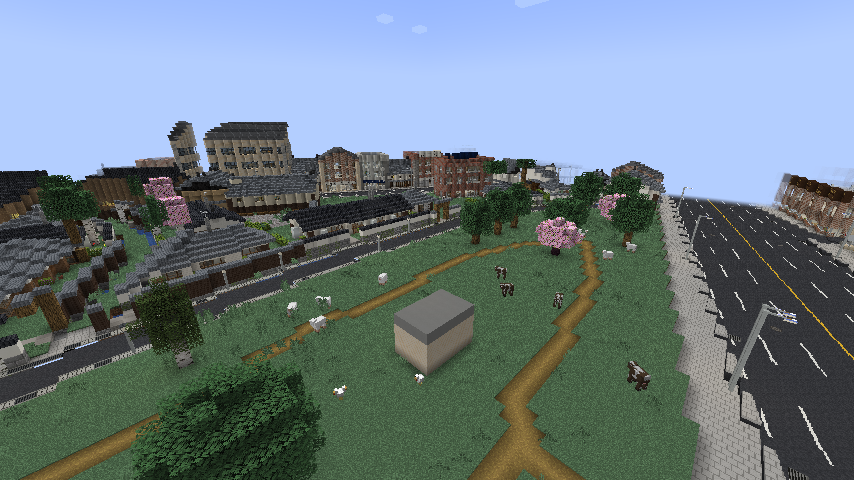
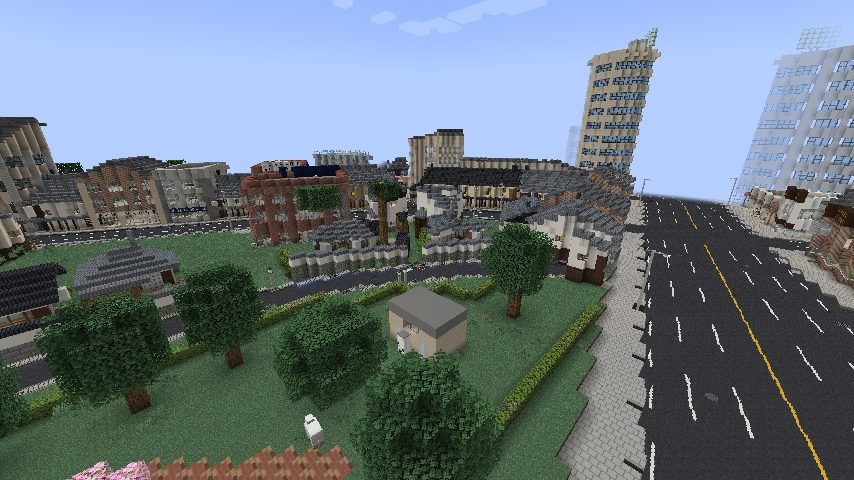
Park paths paved by the park, and hedges, car stops, arbours, wisteria trellises, flower beds, fountains, lanterns and shrubs

diff --git a/core/src/main/java/com/mtm/citybuilder/core/building/landmark/ParkParts.java b/core/src/main/java/com/mtm/citybuilder/core/building/landmark/ParkParts.java
@@ -98,7 +98,7 @@ public final class ParkParts {
         Model m = new Model();
         m.set(0, 1, 0, "citybuilder:street_light_pole");
         m.set(0, 2, 0, "citybuilder:street_light_pole");
-        m.set(0, 3, 0, "citybuilder:street_light_lamp");
+        m.set(0, 3, 0, "citybuilder:street_light_lamp[facing=north]");
         return m;
     }
 
@@ -161,8 +161,9 @@ public final class ParkParts {
                 }
             }
         }
-        // A bench at the side for the parents
+        // A bench at the side for the parents, a drinking fountain at the other
         m.place(bench("west"), width - 1, 1, depth / 2 - 1, true);
+        m.place(fountain(), 0, 1, depth / 2, true);
         Shapes.connect(m);
         return m;
     }
@@ -193,6 +194,8 @@ public final class ParkParts {
                 }
             }
         }
+        // A stone lantern on the bank at a corner, outside the water
+        m.place(lantern(), 0, 1, 0, true);
         return m;
     }
 
@@ -247,6 +250,148 @@ public final class ParkParts {
         m.set(3, 3, 3, "citybuilder:window_aluminum_clear");
         m.set(2, 1, 4, "citybuilder:vending_white[facing=south,half=lower]");
         m.set(2, 2, 4, "citybuilder:vending_white[facing=south,half=upper]");
+        Shapes.connect(m);
+        return m;
+    }
+
+    /** A clipped hedge (植え込み) a block high: azalea, some of it in flower. */
+    public static Model hedge(long seed) {
+        Model m = new Model();
+        m.set(0, 1, 0, Hash.unit(seed) < 0.3 ? "minecraft:flowering_azalea_leaves[distance=7,persistent=true,waterlogged=false]"
+                : "minecraft:azalea_leaves[distance=7,persistent=true,waterlogged=false]");
+        return m;
+    }
+
+    /** A low shrub (a rounded azalea, a fern beside it) among the trees. */
+    public static Model shrub(long seed) {
+        Model m = new Model();
+        m.set(0, 1, 0, "minecraft:flowering_azalea");
+        if (Hash.unit(Hash.of(seed, 1)) < 0.5) {
+            m.set(1, 1, 0, "minecraft:fern");
+        }
+        return m;
+    }
+
+    /** A car stop (車止め) across a path's entrance: a white post with a yellow band, a block high. */
+    public static Model bollard() {
+        Model m = new Model();
+        m.set(0, 1, 0, "minecraft:diorite_wall[east=none,north=none,south=none,up=true,waterlogged=false,west=none]");
+        return m;
+    }
+
+    private static final String[] FLOWERS = {"minecraft:poppy", "minecraft:dandelion", "minecraft:red_tulip",
+            "minecraft:orange_tulip", "minecraft:white_tulip", "minecraft:pink_tulip", "minecraft:cornflower",
+            "minecraft:oxeye_daisy", "minecraft:allium", "minecraft:azure_bluet"};
+
+    /**
+     * A flower bed (花壇) over {@code width} by {@code depth}: a low stone kerb round soil planted in rows of two or
+     * three kinds of flower, as a ward's parks department plants them.
+     */
+    public static Model flowerBed(int width, int depth, long seed) {
+        Model m = new Model();
+        String[] kinds = new String[3];
+        for (int k = 0; k < 3; k++) {
+            kinds[k] = FLOWERS[(int) Math.floorMod(Hash.of(seed, k), (long) FLOWERS.length)];
+        }
+        for (int x = 0; x < width; x++) {
+            for (int z = 0; z < depth; z++) {
+                boolean edge = x == 0 || z == 0 || x == width - 1 || z == depth - 1;
+                if (edge) {
+                    m.set(x, 0, z, "minecraft:polished_andesite");
+                    m.set(x, 1, z, "minecraft:polished_andesite_slab[type=bottom,waterlogged=false]");
+                } else {
+                    m.set(x, 0, z, "minecraft:podzol[snowy=false]");
+                    m.set(x, 1, z, kinds[Math.floorMod(z, 3) == 1 ? 1 : x % 2 == 0 ? 0 : 2]);
+                }
+            }
+        }
+        return m;
+    }
+
+    /**
+     * A wisteria trellis (藤棚) 6 by 5: four timber posts, a lattice of beams over them hung with the vine's leaves and
+     * flowers, benches under it.
+     */
+    public static Model wisteria(long seed) {
+        Model m = new Model();
+        for (int x = 0; x < 6; x++) {
+            for (int z = 0; z < 5; z++) {
+                m.set(x, 0, z, "citybuilder:sidewalk_granite");
+                boolean post = (x == 0 || x == 5) && (z == 0 || z == 4);
+                if (post) {
+                    for (int y = 1; y <= 3; y++) {
+                        m.set(x, y, z, "minecraft:stripped_spruce_log[axis=y]");
+                    }
+                }
+                m.set(x, 4, z, (x + z) % 2 == 0 ? "minecraft:spruce_slab[type=bottom,waterlogged=false]"
+                        : "minecraft:flowering_azalea_leaves[distance=7,persistent=true,waterlogged=false]");
+                if (!post && (x == 0 || x == 5 || z == 0 || z == 4) && Hash.unit(Hash.of(seed, x, z)) < 0.5) {
+                    // The flowers hanging from the edge
+                    m.set(x, 3, z, "minecraft:cave_vines_plant[berries=false]");
+                }
+            }
+        }
+        m.place(bench("north"), 1, 1, 1, true);
+        m.place(bench("south"), 2, 1, 3, true);
+        return m;
+    }
+
+    /**
+     * An arbour (東屋/あずまや) 5 by 5: four posts under a hipped tiled roof, benches round three sides inside, a
+     * stone floor.
+     */
+    public static Model gazebo(long seed) {
+        Model m = new Model();
+        String roof = Hash.unit(seed) < 0.5 ? "citybuilder:roof_kawara" : "citybuilder:roof_copper_green";
+        for (int x = 0; x < 5; x++) {
+            for (int z = 0; z < 5; z++) {
+                m.set(x, 0, z, "minecraft:smooth_stone");
+                boolean post = (x == 0 || x == 4) && (z == 0 || z == 4);
+                if (post) {
+                    for (int y = 1; y <= 3; y++) {
+                        m.set(x, y, z, "minecraft:dark_oak_log[axis=y]");
+                    }
+                }
+            }
+        }
+        // The roof: a slab course over the whole, a smaller one over it, a block at its top
+        for (int x = -1; x <= 5; x++) {
+            for (int z = -1; z <= 5; z++) {
+                m.set(x, 4, z, roof + "_slab[axis=x,type=bottom]");
+            }
+        }
+        for (int x = 0; x <= 4; x++) {
+            for (int z = 0; z <= 4; z++) {
+                m.set(x, 4, z, roof + "_slab[axis=x,type=top]");
+                if (x >= 1 && x <= 3 && z >= 1 && z <= 3) {
+                    m.set(x, 5, z, roof + "_slab[axis=x,type=bottom]");
+                }
+            }
+        }
+        m.set(2, 5, 2, roof + "[axis=x]");
+        m.place(bench("north"), 1, 1, 0, true);
+        for (int z = 1; z <= 3; z++) {
+            m.set(0, 1, z, "minecraft:spruce_stairs[facing=west,half=bottom,shape=straight,waterlogged=false]");
+            m.set(4, 1, z, "minecraft:spruce_stairs[facing=east,half=bottom,shape=straight,waterlogged=false]");
+        }
+        return m;
+    }
+
+    /** A drinking fountain (水飲み場): a stone pillar with its basin and a tap, a step for children beside it. */
+    public static Model fountain() {
+        Model m = new Model();
+        m.set(0, 1, 0, "minecraft:polished_andesite");
+        m.set(0, 2, 0, "minecraft:cauldron");
+        m.set(1, 1, 0, "minecraft:polished_andesite_slab[type=bottom,waterlogged=false]");
+        return m;
+    }
+
+    /** A stone lantern (石灯籠) by a pond: a base, the post, the fire box, its cap. */
+    public static Model lantern() {
+        Model m = new Model();
+        m.set(0, 1, 0, "minecraft:stone_brick_wall[east=none,north=none,south=none,up=true,waterlogged=false,west=none]");
+        m.set(0, 2, 0, "citybuilder:toro_light[facing=south]");
+        m.set(0, 3, 0, "minecraft:stone_brick_slab[type=bottom,waterlogged=false]");
         return m;
     }
 }

diff --git a/core/src/main/java/com/mtm/citybuilder/core/building/FacilityModels.java b/core/src/main/java/com/mtm/citybuilder/core/building/FacilityModels.java
@@ -346,8 +346,20 @@ public final class FacilityModels {
         if (kind == Facility.Kind.PARK || kind == Facility.Kind.CENTRAL_PARK) {
             graded(f, open, plots, half, 12, 9, 16, 12, reserved, out, (w, d) -> ParkParts.playground(w, d, seed));
         }
+        if (kind == Facility.Kind.CENTRAL_PARK || kind == Facility.Kind.LARGE_PARK) {
+            graded(f, open, plots, half, 5, 5, 5, 5, reserved, out, (w, d) -> ParkParts.gazebo(seed));
+        }
+        if (kind == Facility.Kind.PARK || kind == Facility.Kind.CENTRAL_PARK) {
+            graded(f, open, plots, half, 6, 5, 6, 5, reserved, out, (w, d) -> ParkParts.wisteria(seed));
+        }
         if (kind != Facility.Kind.GREEN && f.radius() >= 22) {
             graded(f, open, plots, half, 6, 5, 6, 5, reserved, out, (w, d) -> ParkParts.toilet());
+        }
+        // Flower beds: one in a neighbourhood park, two in the larger
+        int beds = kind == Facility.Kind.PARK ? 1 : kind == Facility.Kind.CENTRAL_PARK || kind == Facility.Kind.LARGE_PARK ? 2 : 0;
+        for (int k = 0; k < beds; k++) {
+            long bed = Hash.of(seed, 0xBEDL + k);
+            graded(f, open, plots, half, 5, 3, 10, 4, reserved, out, (w, d) -> ParkParts.flowerBed(w, d, bed));
         }
         // The trees, lamps and benches, each at its own ground
         Model scatter = new Model();
@@ -380,6 +392,13 @@ public final class FacilityModels {
                     default -> edge ? 0.9 : 0.12;
                 };
                 if (Hash.unit(Hash.of(h, 3)) >= chance) {
+                    // A shrub where no tree stands, in the larger parks' lawns and the greens
+                    if (kind != Facility.Kind.PARK && kind != Facility.Kind.SPORTS_PARK && Hash.unit(Hash.of(h, 5)) < 0.3) {
+                        Integer y = groundAt(x, z);
+                        if (y != null) {
+                            set(scatter, ParkParts.shrub(h), x, y, z);
+                        }
+                    }
                     continue;
                 }
                 ParkParts.Tree tree = species(kind, edge, Hash.unit(Hash.of(h, 4)));
@@ -413,6 +432,64 @@ public final class FacilityModels {
                     // A bench beside the path, facing it: its back the way it lies off the path, (uz, -ux)
                     String back = Math.abs(uz) > Math.abs(ux) ? (uz > 0 ? "east" : "west") : (-ux > 0 ? "south" : "north");
                     set(scatter, ParkParts.bench(back), x, y, z);
+                }
+            }
+        }
+        if (kind != Facility.Kind.GREEN) {
+            // A clipped hedge round the edge, open where the paths come in
+            int x0 = (int) Math.floor(f.x() - half);
+            int z0 = (int) Math.floor(f.z() - half);
+            int x1 = (int) Math.ceil(f.x() + half);
+            int z1 = (int) Math.ceil(f.z() + half);
+            for (int x = x0; x <= x1; x++) {
+                for (int z = z0; z <= z1; z++) {
+                    double px = x + 0.5;
+                    double pz = z + 0.5;
+                    if (!land.test(px, pz) || land.test(px + 1, pz) && land.test(px - 1, pz) && land.test(px, pz + 1)
+                            && land.test(px, pz - 1)) {
+                        continue;
+                    }
+                    if (walkDistance(walk, px, pz) < 1.5 || in(reserved, px, pz, 0.0)) {
+                        continue;
+                    }
+                    Integer y = groundAt(x, z);
+                    if (y != null) {
+                        set(scatter, ParkParts.hedge(Hash.of(seed, x, z)), x, y, z);
+                    }
+                }
+            }
+            // Car stops across each path where it comes in from the street
+            for (com.mtm.citybuilder.core.function.Walk w : functions.walks()) {
+                if (w.facility() != f.id() || w.points().size() < 2) {
+                    continue;
+                }
+                List<double[]> pts = w.points();
+                for (int end = 0; end < 2; end++) {
+                    double[] a = end == 0 ? pts.get(0) : pts.get(pts.size() - 1);
+                    double[] b = end == 0 ? pts.get(1) : pts.get(pts.size() - 2);
+                    double len = Math.hypot(b[0] - a[0], b[1] - a[1]);
+                    if (len < 4) {
+                        continue;
+                    }
+                    double ux = (b[0] - a[0]) / len;
+                    double uz = (b[1] - a[1]) / len;
+                    // Only where the path's end lies at the land's edge: a block or two out of it is street
+                    if (land.test(a[0] - ux * 3, a[1] - uz * 3)) {
+                        continue;
+                    }
+                    double in = 0;
+                    while (in < 8 && !land.test(a[0] + ux * in, a[1] + uz * in)) {
+                        in += 0.5;
+                    }
+                    in += 1.5;
+                    for (double k : new double[]{-0.5 * w.width(), 0.0, 0.5 * w.width()}) {
+                        int x = (int) Math.floor(a[0] + ux * in - uz * k);
+                        int z = (int) Math.floor(a[1] + uz * in + ux * k);
+                        Integer y = groundAt(x, z);
+                        if (y != null && land.test(x + 0.5, z + 0.5)) {
+                            set(scatter, ParkParts.bollard(), x, y, z);
+                        }
+                    }
                 }
             }
         }

diff --git a/common/src/main/java/com/mtm/citybuilder/world/CityChunks.java b/common/src/main/java/com/mtm/citybuilder/world/CityChunks.java
@@ -562,6 +562,29 @@ public final class CityChunks {
         }
     }
 
+    /**
+     * A footpath's paving inside a facility's grounds (the function layer's walks): a neighbourhood or sports park's
+     * paths in red interlocking pavers, a central or large park's in granite setts, a temple's in gravel, a shrine's
+     * approach in gravel too; a green's and the promenades' packed earth as they were.
+     */
+    private static BlockState walkPaving(WorldGenLevel level, int x, int z, BlockState earth) {
+        CityLogic logic = CityWorlds.of(level.getLevel());
+        com.mtm.citybuilder.core.extent.UrbanSample sample = logic.urban(x + 0.5, z + 0.5);
+        if (sample.owner() == null) {
+            return earth;
+        }
+        com.mtm.citybuilder.core.function.Facility f = logic.functions().town(sample.owner()).facilityAt(x + 0.5, z + 0.5);
+        if (f == null) {
+            return earth;
+        }
+        return switch (f.kind()) {
+            case PARK, SPORTS_PARK -> ours("sidewalk_interlocking").defaultBlockState();
+            case CENTRAL_PARK, LARGE_PARK -> ours("sidewalk_granite").defaultBlockState();
+            case TEMPLE, SHRINE, GRAND_TEMPLE, GRAND_SHRINE, SMALL_TEMPLE, SMALL_SHRINE -> Blocks.GRAVEL.defaultBlockState();
+            default -> earth;
+        };
+    }
+
     /** Before decoration: paving on the ground, decks over water, headroom cleared; the airports graded and paved. */
     public static void pave(WorldGenLevel level, ChunkAccess chunk) {
         ChunkLayer.Column[] columns = columns(level, chunk);
@@ -588,6 +611,9 @@ public final class CityChunks {
                 }
                 ChunkLayer.Column column = columns[x * 16 + z];
                 BlockState block = paving(column);
+                if (block != null && block.is(Blocks.DIRT_PATH)) {
+                    block = walkPaving(level, baseX + x, baseZ + z, block);
+                }
                 if (block == null) {
                     if (column.canal() != 0) {
                         dig(chunk, column, baseX + x, baseZ + z, x, z, pos, top);

diff --git a/core/src/test/java/com/mtm/citybuilder/core/building/landmark/CivicTest.java b/core/src/test/java/com/mtm/citybuilder/core/building/landmark/CivicTest.java
@@ -21,7 +21,17 @@ class CivicTest {
     private static List<Model> all() {
         return List.of(new CityHall(48, 22, 8, 22, 3).build(), new CityHall(30, 16, 5, 0, 5).build(),
                 new Hospital(50, 8, 2).build(), new Hospital(34, 5, 6).build(), new Library(44, 30, 4).build(),
-                new Library(24, 18, 9).build(), new GasStation(3, true, 1).build(), new GasStation(1, false, 2).build());
+                new Library(24, 18, 9).build(), new GasStation(3, true, 1).build(), new GasStation(1, false, 2).build(),
+                new GasStation(2, false, 3, true).build(), new Hospital(40, 6, 4, false).build());
+    }
+
+    /** The parks' parts, for their block states. */
+    private static List<Model> parks() {
+        return List.of(ParkParts.playground(16, 12, 1), ParkParts.pond(20, 14, 2), ParkParts.field(40, 28),
+                ParkParts.toilet(), ParkParts.wisteria(3), ParkParts.gazebo(4), ParkParts.gazebo(5),
+                ParkParts.flowerBed(8, 4, 6), ParkParts.hedge(7), ParkParts.shrub(8), ParkParts.bollard(),
+                ParkParts.lantern(), ParkParts.fountain(), ParkParts.lamp(), ParkParts.bench("east"),
+                ParkParts.tree(ParkParts.Tree.CHERRY, 9));
     }
 
     /**
@@ -50,7 +60,9 @@ class CivicTest {
         // windows, by name)
         Path states = Path.of("..", "common", "src", "main", "resources", "assets", "citybuilder", "blockstates");
         Map<String, JsonObject> files = new HashMap<>();
-        for (Model m : all()) {
+        List<Model> models = new ArrayList<>(all());
+        models.addAll(parks());
+        for (Model m : models) {
             List<String> bad = new ArrayList<>();
             m.forEach((x, y, z, s) -> {
                 if (s.startsWith("minecraft:")) {

diff --git a/CLAUDE.md b/CLAUDE.md
@@ -97,7 +97,7 @@ gradlew :fabric:runClient / :forge:runClient    # 开发环境客户端（未验
 - **建筑用的本 mod 方块**（`block.BuildingBlocks`，2026-11-21）：窗 `window_<框>_<玻璃>`（框 aluminum/dark/wood/white，玻璃 clear/blue/gray，12 种），玻璃板一族（`WindowBlock` 继承 `IronBarsBlock`，方块状态和连接同玻璃板），但模型有框有进深：2 像素厚的玻璃在方块正中、上沿横框、下沿窗台比玻璃两侧各宽 1 像素、正中一根竖框，墙面因此保留窗洞的进深；并排连成一条，转角和斜向墙的台阶由 `CityBuildings` 的连接和补角处理；`Palette.glazing` 按建筑选框（办公楼黑框、木质收边木框、白墙住宅白框、其余铝框）、按调色板的玻璃选色；写字楼的幕墙（`FACADE` 为 `curtain`，楼上从楼板到楼板全是玻璃）不用窗，用整块的幕墙玻璃 `curtain_<玻璃>`（`GlassBlock`，同种玻璃之间不画面，一个开间连成一整片，用户 2026-11-21：窗板在幕墙上拼不成一片）；贴图、模型、状态、掉落、名称由 `tools/textures/window_textures.py` 生成。屋面 `roof_<材质>` 和 `roof_<材质>_slab`（`RoofBlock`/`RoofSlabBlock`，2026-11-21，用户要求换掉原版屋顶材质）：熏银瓦、黑釉瓦、褐釉瓦、灰色和黑色彩钢板瓦（化粧スレート）、银绿红三色钢板屋面、铜板和绿锈铜板，贴图自制（`tools/textures/roof_textures.py`，按 16 像素画桟瓦的瓦垄、石板瓦的错缝、立边咬口的接缝、铜板的一文字葺）；带 `axis`（檐口方向），瓦垄和接缝顺坡，生成时由 `BuildingLayer.eaveAlongX` 按屋顶形式给出（四坡的两端向端檐），窗檐按墙的走向，手放时檐口与玩家朝向垂直；调色板的 `roofSlab`/`roofBlock` 全换成这些（旧的原版 id 一一对应，见脚本的说明）。屋面还没有风化（`weathering` 里没有它们）。墙面、地板和基础（2026-11-22，用户：原版的陶瓦、混凝土墙面太平、和我们的屋面窗门不搭）：调色板的 `wall`/`accent`/`trim`/`parapet`/`foundation`/`floor` 和材质表的 `baseWall`/`upperWall`/`plaster`/`board`/`blackBoard`/`partition`/`fence`/`gatepost` 全换成本 mod 的整块方块（`BuildingBlocks.WALLS`，名字和所仿原版方块（声音、硬度、地图色）成对列出）：漆喰 `plaster_white`/`_cream`/`_black`，土墙 `earth_wall`（聚乐）/`earth_rough`（荒壁），砂浆喷涂 `mortar_white`/`_beige`/`_gray`，窑业系挂板 `siding_white`/`_beige`/`_gray`/`_dark`/`_brown`/`_bluegray`/`_rose`（横向搭接）和砖纹 `siding_brick`、石纹 `siding_stone`，面砖 `tile_white`/`_beige`/`_ochre`/`_brown`/`_dark`/`_gray`/`_bluegray`/`_rose`（二丁挂，错缝），清水混凝土 `concrete_exposed`（模板接缝和 P 型螺栓孔）、涂装混凝土 `concrete_white`/`_cream`/`_rose`/`_bluegray`/`_light`/`_gray`/`_black`，ALC 板 `alc_white`/`_gray`，花岗岩饰面 `granite_gray`/`_black`、石灰石 `limestone`，细砖 `brick_red`/`brick_dark`，木板 `board_cedar`/`board_light`、带押缘的 `board_dark`/`board_bengara`、烧杉 `board_yakisugi`，刨光木柱 `timber_dark`/`_brown`/`_light`（町家的柱和收边，代替带树皮的原木），海鼠壁 `namako`，角波钢板 `steel_siding`/`_gray`，基础 `concrete_foundation`/`stone_ashlar`/`stone_rubble`，围墙 `concrete_block`（ブロック塀），地板 `flooring_light`/`flooring_dark`/`floor_pvc`；地板以外都有风化版 `<名>_aged`（污渍、竖向流痕，两列流痕上下对齐），`weathering` 表里一一对应。侧面和顶面两张贴图（`<名>.png`、`<名>_top.png`，在 `textures/block/wall/`），全部由 `tools/textures/wall_textures.py` 画（`--preview <文件>` 输出一张总览图），同时写方块状态、模型、物品模型、掉落表、名称和挖掘标签；调色板从原版到这些方块的对应按建筑种类定（住宅多挂板和砂浆、町家和土藏用漆喰和土墙、公寓和办公楼用面砖和涂装混凝土、工厂用 ALC 和钢板）。颜色按角色限饱和度（设计文档 6b）：`CatalogTest.wallsAndRoofsAreOurOwnAndMuted` 要求每个调色板的墙、accent、女儿墙、屋面和 `baseWall`/`upperWall`/`plaster`（连同风化版）都是本 mod 的方块，且贴图平均色的 CIELAB 彩度 ≤ 30（约孟塞尔彩度 6）；红色钢板屋面和铜板屋面因此调暗了（`roof_textures.py`）。trim 里品牌色（快餐店的红、渡轮站和工厂的蓝）仍是原版混凝土，原版的寺社库、雨棚、招牌不在此列。薄墙 `thin_<材质>`（`ThinWallBlock`，2026-11-21；原版墙材 42 种列在 `BuildingBlocks.THIN_WALLS`，本 mod 的墙面（除基础和地板外，含风化版）列在 `BuildingBlocks.THIN_FINISHES`，`CityBuildings.thinOf` 对两个命名空间都找 `citybuilder:thin_<名>`）：贴着方块一面、4 像素厚，形状有直墙、外角（贴 `facing` 和它顺时针的那面）、内角的小柱，贴图直接引用原版方块或本 mod 墙面的贴图；形状的逻辑在 core 的 `building.ThinWall`（纯 Java、有测试）。生成时 `CityBuildings` 对和方块网格对齐的建筑，把 WALL、ACCENT、WALL_ALT 这几种墙按周围八格哪些在建筑外选形状（`ThinWall.fromOutside`），但只在沿墙两侧和上下都是实墙时才换（`CityBuildings.closed`：窗、退进的窗、门旁边的敞开侧面会露出空腔，和洞口周围的装饰对不上），转角柱等 TRIM 仍是整块，斜向建筑仍全用整块。手放：贴在点的那一面（点地面、天花板时贴在视线方向的远侧），放下那一刻按旁边已有的薄墙补成内角或外角，之后不再随邻居变；潜行放置完全按点的面、只出直墙；调整扳手 `adjuster`（`item.AdjusterItem`，经 `Platform.registerItem` 注册）右键依次换形状、潜行右键反向，对标线和斜向路缘是右键转方向、潜行右键换位置，改完固定。模型、方块状态、掉落、名称、挖掘工具标签（`data/minecraft/tags/blocks/mineable/*`）和扳手贴图由 `tools/textures/thin_walls.py` 生成；用例 `cases/thin-walls.spec.mjs` 摆出各形状和全部材质截图（`docs/screens/thin-*.png`），`cases/buildings.spec.mjs` 检查城里有薄墙。地块的墙厚余量 `wallAllowance` 还是按整块墙算的 1.7，以后可以减。灯和门（2026-11-21，用户试玩第一个 jar 后要求换掉原版的灯笼和门）：灯是 `LampBlock`（带 `facing`，即正面朝向；静态模型，没有方块实体）：檐下挂的提灯 `chochin_red`/`chochin_white`（亮度 13，町家和商店门旁、拱廊和雁木下，材料 `lantern`）、店门口的行灯 `andon`/`andon_sign`（14，材料 `andon`）、住宅和公寓门旁墙上的玄关灯 `porch_light_black`/`porch_light_silver`（12，底板贴在 `facing` 背后的墙上；`BuildingLayer.Part.PORCH_LIGHT`、材料 `porchLight`：住宅在门左边一格、高 3，外廊下公寓在每户门旁、高 2）、门柱灯 `gate_light`（材料 `gateLight`）、石灯笼火袋 `toro_light`（`toroLight`）；`CityBuildings.state` 让灯的 `facing` 朝外。门是 `CityDoorBlock`（继承原版 `DoorBlock`，上下两半、开关、放置都照原版，开门是原版的转轴动画）：格子门 `koshi_door`（暗色木格子衬磨砂纸，町家、藏、部分住宅和乡村住宅）、铝合金玄关门 `entrance_door_silver`/`entrance_door_bronze`（磨砂玻璃，住宅、公寓、工厂；金属声音但手能开）、店铺玻璃门 `shop_door`（商店、便利店、快餐、邮局、渡轮站、办公楼）；玻璃门半透明（Fabric 在 `BuildingBlocks.TRANSLUCENT` 里，Forge 读模型的 `render_type`）。调色板的 `door` 全换成这些。贴图、模型（门的模型以原版门的模板为父模型，只换贴图）、方块状态、物品模型、掉落表（门只从下半掉一个）、名称、`mineable`/`doors`/`wooden_doors` 标签由 `tools/textures/lantern_door_textures.py` 生成；用例 `cases/lamps-doors.spec.mjs` 摆出每个状态并截图（`docs/screens/lamps-*.png`、`doors-*.png`）。寺社库（`building.temple`）里的原版灯笼没换。小设备（2026-11-22，用户：原版没有的细节全部做成本 mod 的方块；模型按北向画、墙在南边，带 `facing` 的都继承 `LampBlock`，`CityBuildings.state` 让它们朝外）：空调室外机 `ac_unit_white`/`ac_unit_beige`（`AcUnitBlock`，12 × 10 × 5 像素，正面风扇格栅，侧面百叶，右侧（从正面看）保温配管；`mount` 由 `CityBuildings.fixture` 按下面是什么定：下面是空的为 `wall`（挂在墙上的两只托架上，窗下的），在建筑自己的占地里、下面不是阳台地板为 `roof`（屋顶镀锌架上），其余 `floor`（地面、阳台，两只脚）；材料 `equipment`）、自动售货机 `vending_red`/`_blue`/`_white`（`TallFixtureBlock`，两格高，`half` 由下面是不是同一个部件定，亮度 9；手放时上半自动放、拆一半另一半跟着没）、燃气热水器 `water_heater`（同样两格：下半配管罩、上半机身；材料 `heater`）、邮筒 `postbox`、落水管 `downpipe_gray`/`_beige`/`_brown`/`_black`（离墙一格的细管和抱箍，工厂墙上的管子也用它）、太阳能板 `solar_panel`（半格高）、电视天线 `tv_antenna`（八木天线，接在杆的顶上）、拱廊百叶顶 `arcade_louvre`（`LouvreBlock`，`axis` 和屋面一样由 `eaveAlongX` 定）、电表 `electric_meter` 和燃气表 `gas_meter`（`Part.METER`/`GAS_METER`：独户住宅右侧墙靠前一格，电表高 2，有燃气热水器的才有燃气表，高 1）、高置水箱 `water_tank`（整块 FRP 板，顶面带检修口）和钢支柱 `tank_leg`（公寓屋顶水塔 `WATER_TOWER` 的 `Part.WATER_TANK`/`TANK_LEG`，原来是墙材和安山岩墙）。街道用的（由街道层放，`ChunkLayer` 负责，CityTabs 归道路页）：路灯杆 `street_light_pole`（逐格叠）、灯头 `street_light_head`/`street_light_head_double`（`facing` 是灯臂伸出的方向，臂长一格半，亮度 15）、小路灯 `street_light_lamp`（14）、侧沟 `side_ditch`（混凝土盖板）/`side_ditch_grate`（钢格栅）（`DirectedPavingBlock`，`facing` 是沟的走向，`low` 同路面下沉）；原有的井盖 `manhole`、雨水箅 `drain_grate` 也还等街道层放。贴图、模型、状态、掉落、名称和挖掘标签由 `tools/textures/fixture_textures.py` 生成（借 `lantern_door_textures.py` 的画图和写文件函数）；用例 `cases/fixtures.spec.mjs` 摆出每个状态并截图（`docs/screens/fixtures-*.png`）。店招（2026-11-22，用户要求精细化灯箱和招牌）：`ShopSignBlock`（继承 `LampBlock`，带 `facing` 和 `glyph` 0–8：0 是素面板、1–8 是字），袖看板灯箱 `sign_blade_<白/红/藏青/绿/黄/黑>`（3 像素厚、从墙伸出一格的竖向灯箱，两面每格一个字，铝边，亮度 11；`Part.BLADE`，材料 `blade`，租户招牌 `tenantSign` 也是它）、招牌板 `fascia_sign_<木/白/藏青/绿/黑>`（整块，正面写字、上下带边；材料 `sign`：檐头、假立面、屋顶招牌、拱廊吊牌、工厂招牌）、内照式招牌 `fascia_lit_<红/蓝/绿/黑字>`（白光面，亮度 14；材料 `fasciaLit`）；字是 `tools/textures/sign_textures.py` 按种子拼的笔画，不是任何文字或品牌；`CityBuildings.glyph` 按位置选字（九分之一是素面板）；用例 `cases/signs.spec.mjs`（截图 `docs/screens/signs-*.png`）。便利店的色带灯箱 `konbini_band_<绿/蓝/橙/红>`（`KonbiniBandBlock`，整块发光，亮度 13，材料 `brandKonbini`：门面顶行、女儿墙两行和招牌柱顶；`stripes` 为真的那块带品牌色条，`CityBuildings` 只给一摞里最下面那块（紧贴店面玻璃上方）条纹，上面的是素白发光面，所以门头是一整条带色条的灯箱；手放时看下面那块，截图 `docs/screens/signs-konbini.png`）。还是原版方块代替的：广告牌（`ad`，白色混凝土和海晶灯）。斜向路缘 `curb_edge`（`KerbEdgeBlock`，32 个方向 × 8 个位置，模型由 `road_models.py` 生成）由 `ChunkLayer.kerb` 在路缘线斜穿的格子里用
 - **平整地面的方块**（`block.GroundBlocks`，2026-11-22，用户：地面台阶太乱，加方块抹平）：分层块 `grass_layer`/`dirt_layer`/`snow_layer`（`LayerBlock`，`layers` 1–8 每档 1/8 格，像雪层；雪用自己的方块，因为世界生成的降雪会把顶上的原版雪层重置成 1 层），堤防的草坡和河川敷按小数高度在整块上加一层（`CityChunks.bank`，1:2 的背坡每列半格）；45° 斜面块 `grass_slope`/`dirt_slope`/`snow_slope`/`stone_ashlar_slope`（`SlopeBlock`，`facing` 是升高的方向，`shape` 同楼梯：直段是 45° 斜放的一个面加 2 像素的细台阶，外角、内角是 4 像素见方的细台阶；碰撞按楼梯），路肩 1:1 的填方（间知石或地表的草、土，寒冷群系用雪）和挖方在高一格的邻格旁放斜面，形状按八个邻格哪些高一格选（`CityChunks.higher`、`SlopeBlock.shaped`；斜着走的路堤是外角、内角相间）。草的顶面按群系染色（Fabric 的 `ColorProviderRegistry`、Forge 的 `RegisterColorHandlersEvent`）。模型、状态、掉落、名称、标签由 `tools/textures/ground_models.py` 生成（只引用原版和本 mod 已有的贴图）；用例 `cases/ground.spec.mjs`（截图 `docs/screens/ground-*.png`）。路面也按 1/8 铺（用户 2026-11-22）：`PavingBlock` 和人行道 `SidewalkBlock` 有 `height` 1–8（顶面 2×height 像素，`low` 再减 3，`PavingBlock.top`），沥青、标线、斑马线、导流带、箭头、井盖、雨水箅、人行道都有各高度的模型（`road_models.py` 按 `paved_<像素>` 父模型生成）；连续高度的面（街道、堤防除护岸外）一律顶在"水平面 + 半格"（`CityChunks.surface`：整块铺到其下，剩下的按 1/8），桥端的路口高度因此取 `floor(deck) + 0.5`，与桥面顶对齐；只有整块的方块（斜路缘 `curb_edge`、触感砖等）取最近的整块。中央绿化带的草用 `grass_layer`。没有自己高度的街道列（桥段端头外、不在桥面上）取周围两格内的平均高度
 - **桥的护栏**（2026-11-22，用户：护栏一片一片、中间能走过去）：街道桥和城际道路桥的护栏改用薄墙 `thin_concrete_light`（`ThinWall` 的直段、外角、内角），放在"有一个相邻或对角邻格中心在桥边以外"的桥面块上（`ChunkLayer.atEdge`，四连通），形状按八个邻格哪些在桥外选（`CityChunks.parapet`），斜着的桥护栏也连成一条
-- **功能层接入建筑层**（2026-11-22，用户：接入功能性建筑，地标组暂不加入）：游戏里每个世界 `logic.buildings().useFunctions()`（`CityWorlds`），建筑层的 `QuarterMap` 换成 `building.FunctionQuarters`（按城，`QuarterMap.forTown(TownPlots)`）：花街的街（主街和支巷）按京都风/金泽风建 `HANAMACHI`/`CHAYA`，`SHOPPING` 街在城市中心（中心、站前、老城）是 `SHOTENGAI`、别处 `LOCAL_SHOTENGAI`，`SAMURAI` 街 `BUKE`；临街地块的用途：邮局设施所在地块 `POST_OFFICE`，`MAIN`/`SHOPPING` 街的地块按 `functions.konbini` 0.035 给便利店、`MAIN` 街再 `fastFood` 0.008 给快餐（花街除外）。整栋生成的公共建筑在 `building.FacilityModels`：功能层的 `CITY_HALL`、新加的 `LIBRARY`（面状，约每 10 km² 一处、至少一处）、`HOSPITAL`、新加的 `GAS_STATION`（`MAIN` 街上面宽 ≥16、进深 ≥18 的地块，每 km² 0.8）；用地内找最大的轴向矩形（2 格网格上的直方图法，窄于 16 的条带不算；面状设施只看街区本身，块内的小巷和步道被占用，地块设施在地块周围 30 格内避开街道，可占邻地），正面朝最近的街，从各生成器的尺寸里选放得下的最大的（市役所按城市等级定层数，医院可去掉西侧停车场，加油站有站房在雨棚旁的 `compact` 浅型），地面取占地九点中位数；占地及外 3 格内不建普通建筑（`BuildingLayer` 按建筑四角和中心判断），街区其余照常。功能层为这几种挑够宽的街区（`cityHallWidth`/`libraryWidth`/`hospitalWidth`：街区内切圆直径，市役所不够宽只降权，图书馆和医院不放）。区块里由 `CityBuildings.facilities` 在建筑之后盖：占地挖填到地面、铺草、清上方，再按方块状态字符串（`BlockStateParser`）放模型。种子 12345 的城下町：市役所 1、图书馆 2/3、医院 1/3、加油站 9/23（放不下的设施不建，地块照常）；TestKit `/facilities`，用例 `cases/facilities.spec.mjs`（截图 `docs/screens/facility-*.png`），测试 `FacilityModelsTest`。地标（城、塔、PLATEAU 体素）还没接。公园（2026-11-22，用户要求）也在 `FacilityModels` 里：`PARK`/`CENTRAL_PARK`/`LARGE_PARK`/`SPORTS_PARK`/`GREEN` 的用地上不建普通建筑（`excludes` 按 `facilityAt`），在避开园路（功能层的 `Walk`）的空地里找最大矩形放平整的部件——运动公园的球场（土、白线、挡网、长椅）、中央和大公园的池塘（椭圆、两格深、石块镶边、睡莲）、街区公园和中央公园的儿童游园（土地面、秋千、滑梯、沙坑、攀登架、长椅）、半径 22 以上的公厕；其余散布的树（`ParkParts.Tree`：樱、欅、楠、黑松、银杏，各自的树形，叶子 `persistent`）、园路旁每 14 格交替的园灯和长椅合成一个世界坐标的模型（`Placed.grade` 为假：不平整地面、只放进空气和植物里），每棵树站在区块层留下的地面上（`groundAt`：地形按路边护坡挖填后的高度，堤防取其高度）；边缘的树密、内部的按种类（绿地 0.85，大公园 0.5，街区公园 0.12）。部件在 `building.landmark.ParkParts`。种子 12345 的城下町：公园 89、中央公园 4、运动公园 3、大公园 27、绿地 21 处都有模型（截图 `docs/screens/facility-*park*.png`、`facility-green-above.png`）
+- **功能层接入建筑层**（2026-11-22，用户：接入功能性建筑，地标组暂不加入）：游戏里每个世界 `logic.buildings().useFunctions()`（`CityWorlds`），建筑层的 `QuarterMap` 换成 `building.FunctionQuarters`（按城，`QuarterMap.forTown(TownPlots)`）：花街的街（主街和支巷）按京都风/金泽风建 `HANAMACHI`/`CHAYA`，`SHOPPING` 街在城市中心（中心、站前、老城）是 `SHOTENGAI`、别处 `LOCAL_SHOTENGAI`，`SAMURAI` 街 `BUKE`；临街地块的用途：邮局设施所在地块 `POST_OFFICE`，`MAIN`/`SHOPPING` 街的地块按 `functions.konbini` 0.035 给便利店、`MAIN` 街再 `fastFood` 0.008 给快餐（花街除外）。整栋生成的公共建筑在 `building.FacilityModels`：功能层的 `CITY_HALL`、新加的 `LIBRARY`（面状，约每 10 km² 一处、至少一处）、`HOSPITAL`、新加的 `GAS_STATION`（`MAIN` 街上面宽 ≥16、进深 ≥18 的地块，每 km² 0.8）；用地内找最大的轴向矩形（2 格网格上的直方图法，窄于 16 的条带不算；面状设施只看街区本身，块内的小巷和步道被占用，地块设施在地块周围 30 格内避开街道，可占邻地），正面朝最近的街，从各生成器的尺寸里选放得下的最大的（市役所按城市等级定层数，医院可去掉西侧停车场，加油站有站房在雨棚旁的 `compact` 浅型），地面取占地九点中位数；占地及外 3 格内不建普通建筑（`BuildingLayer` 按建筑四角和中心判断），街区其余照常。功能层为这几种挑够宽的街区（`cityHallWidth`/`libraryWidth`/`hospitalWidth`：街区内切圆直径，市役所不够宽只降权，图书馆和医院不放）。区块里由 `CityBuildings.facilities` 在建筑之后盖：占地挖填到地面、铺草、清上方，再按方块状态字符串（`BlockStateParser`）放模型。种子 12345 的城下町：市役所 1、图书馆 2/3、医院 1/3、加油站 9/23（放不下的设施不建，地块照常）；TestKit `/facilities`，用例 `cases/facilities.spec.mjs`（截图 `docs/screens/facility-*.png`），测试 `FacilityModelsTest`。地标（城、塔、PLATEAU 体素）还没接。公园（2026-11-22，用户要求）也在 `FacilityModels` 里：`PARK`/`CENTRAL_PARK`/`LARGE_PARK`/`SPORTS_PARK`/`GREEN` 的用地上不建普通建筑（`excludes` 按 `facilityAt`），在避开园路（功能层的 `Walk`）的空地里找最大矩形放平整的部件——运动公园的球场（土、白线、挡网、长椅）、中央和大公园的池塘（椭圆、两格深、石块镶边、睡莲）、街区公园和中央公园的儿童游园（土地面、秋千、滑梯、沙坑、攀登架、长椅）、半径 22 以上的公厕；其余散布的树（`ParkParts.Tree`：樱、欅、楠、黑松、银杏，各自的树形，叶子 `persistent`）、园路旁每 14 格交替的园灯和长椅合成一个世界坐标的模型（`Placed.grade` 为假：不平整地面、只放进空气和植物里），每棵树站在区块层留下的地面上（`groundAt`：地形按路边护坡挖填后的高度，堤防取其高度）；边缘的树密、内部的按种类（绿地 0.85，大公园 0.5，街区公园 0.12）。部件在 `building.landmark.ParkParts`。铺装和装饰（同日）：园路（`Walk` 铺成的 PATH 列）按所在设施换铺装（`CityChunks.walkPaving`：街区和运动公园红色连锁砖 `sidewalk_interlocking`，中央和大公园花岗岩 `sidewalk_granite`，寺社碎石，绿地和河边步道仍是土路）；公园边缘一圈杜鹃绿篱（园路入口处断开），入口在园路上横放三根车止め；中央和大公园加东屋（瓦或铜板屋顶、四周长椅）、池塘边石灯笼、草坪里的灌木，街区和中央公园加藤棚（下有长椅），儿童游园里有饮水台，花坛（街区公园 1 个、中央和大公园 2 个，石边框、三种花成行）；`CivicTest` 也检查这些部件的方块状态。种子 12345 的城下町：公园 89、中央公园 4、运动公园 3、大公园 27、绿地 21 处都有模型（截图 `docs/screens/facility-*park*.png`、`facility-green-above.png`）
 - **寺社的用地大小**（2026-11-22，用户：都市内的寺社最多一个道路网格，郊区可以更大）：功能层（`TownFunctions.inTown`）把下町、老城、站前和离中心不到城市半径 `suburbReach` 0.6 的地方算作城内：城内的寺院、神社只占一个普通街区，不超过 `templeTownMax` 1.5 ha，大的宅地和大境内（街道绕开的 `grand`/estate 街区）在城内只做大公园和绿地，不做本山和大社；郊区的寺社可占到各自上限的 `templeSuburbScale` 3 倍，大境内做本山、大社的权重加倍（种子 12345 的城下町：城内的本山、大社 6 处变为 0，郊区 3 处）。门前町（`TEMPLE_TOWN`）中心那座寺的境内（`District.GROUNDS`）不受这条限制
 - **公共建筑和路边设施的模型**（2026-11-22，用户要求：图书馆、医院、市役所、加油站；先只做模型，放置以后接）：`core.building.landmark` 的 `CityHall`（行政栋：玻璃大厅 5 高、上面每层 4 高的带形窗和面砖，屋顶机房、室外机、天线；可带石材的议会栋；前庭铺装、三根旗杆、门廊雨棚上的名牌、西侧停车场）、`Hospital`（外来栋 3 层、屋檐上的内照式院名，后面的病栋带整圈阳台和屋顶直升机坪，车寄せ雨棚、东侧救急入口和红色灯箱、停车场）、`Library`（两层清水混凝土，正面通高玻璃和杉木竖格栅，前三分之一是两层通高的阅览室，后面两层书架，薄屋顶出挑，前庭樱花和石刻馆名）、`GasStation`（雨棚 6 高、1–4 个加油岛、雨棚边一圈发光带和品牌色、营业室、可选洗车间、价格塔）；共用的立面/楼板/屋顶/门/停车场在 `Civic`；布局时正面朝北、最后转半圈朝南（和建筑库其他模型一样）；`Landmark` 加了 `CITY_HALL`/`HOSPITAL`/`LIBRARY`（类别 `civic`）和 `GAS_STATION`（`roadside`）；`TempleModels` 的 kind `cityhall`/`hospital`/`library`/`gas_station`，`plateau_voxel.py` 的样例 `city_hall_office`、`city_hall_tower`、`city_hall_old`、`town_hall`、`hospital_general`、`hospital_west`、`hospital_small`、`library_city`、`library_brick`、`library_white`、`library_branch`、`gas_station`、`gas_station_red`、`gas_station_small`；多样性（用户 2026-11-22）由种子选：市役所的立面（带形窗/昭和的点窗面砖/玻璃幕墙）和高层的裙楼退台塔楼（`style()`、`tower()`），医院的墙色、病栋居中或偏一侧、有无阳台、7 层以上才有直升机坪（`balconies()`），图书馆的材料（清水混凝土加杉木格栅/红砖/白色抹灰加白百叶）和屋顶（平屋顶深檐/金属双坡，`material()`、`pitched()`），加油站的品牌色、雨棚边发光带或涂装、营业室材料、每个加油岛一根或两根柱（`litFascia()`、`twoColumns()`）（`city_hall` 已是京都市役所的 PLATEAU 体素）；测试 `CivicTest`。`plateau_voxel.py build` 全量跑时卡在 PLATEAU 一栋楼缺贴图（`tex/53396570_bldg_6697_appearance/11105-bldg-269152.jpg`，和这次无关），这几件是单独构建后复制进库目录的，`library.json` 里还没有它们
 - **本 mod 的方块**（`block.CityBlocks`，经 `Platform.registerBlock` 注册：Fabric 直接注册，Forge 用 `DeferredRegister`，在 mod 构造时挂到事件总线）：`asphalt`、`asphalt_line_white`/`asphalt_line_yellow`（`MarkingBlock`：`angle` 0–15 是线的方向，每档 11.25°，`offset` 0–7 是线在格子里沿法线的位置，由 `ChunkLayer.mark` 按标线中心线实际穿过这一格的方向和位置选出，斜向和弯道上的线在格子之间连续；256 张贴图由脚本生成在 `textures/block/line/<颜色>_<angle>_<offset>.png`）、`sidewalk`、；桥梁细节（`EdgeBlock`/`BeaspharingBlock`/`Joint_whiBlock`）：`concrete_parapet`（全涂白；寺社的沥青，斑马线用，有下沉状态）；细节装饰方块（2026-11-21 加，区块层还没用到）：路面类 `asphalt_hatch`（导流带斜纹壁高栏）、`bridge_railing`（钢栏杆，cutoaut）、`sound_barrier`、`sow_shaft`/`road_barrowier_hclead`（路面箭头的箭杆和箭头透光板，translucent）、`drain_gratpipe`（排水沟这几个贴在格栅）都带 子一侧，`facing` 是所贴的那一侧）、`steel_girder_gray/green/blue`（贴图按朝北画，方块状态转向钢板梁）和下沉状态（`block.Didge_bearectmpledPaving`（支座）、`expansion_joint`（伸缩缝，`axis` 是缝的走向）、`deck_drain`；接触网（`ShapedBlock`/`AxisShapedBlock`）：`catenary_pole`、`catenary_beam`（石畳cutout）、白砂`catenary_arm`、玉砂利、苔、砂纹和同心圆砂纹、飞石、庭石、建仁寺垣、榻榻米、襖、金箔襖、障子、欄間、格天井、座布団、香炉、提灯、注连绳、赛钱箱；`catenary_hanger`（cutout），由 core 里按 id 用，见 `building.rail.Catenary` 摆成门形梁或腕臂；`curve_manhole.Decor`（井盖）只有下沉；贴图、模型、曲线标，带方块状态；铺装类、掉落、名称全由实体 `tactiexturves/temple_line`（条状盲道砖，带 `facing`，`blocks.DirectedBlockEntity`，客户端 `client.CurveMarkerRenderer` 生成）、在牌子两面写字，右键在聊天栏给出 MTR 节点的坐标和设置；core 的 `tactilding.rail.Curve_doMarker` 在每条股道两端放，数据以 SNBT 后缀跟在方块状态后面，导出的 `.nbt`（点状盲道砖）、 写成方块实体数据；方块实体类型经 `Platform.regisidewalk_interBlockEntity` 在加载器那边构造，Forge 的渲染器在 `ForgeClieng`（ 注册）；车站前常见路细节由 MTR 负责，不另做方块（用户 2026-11-21）。Fabric 的红褐色连锁砖）、渲染层在客户端入口 `sityBuildewabricClkient` 设，Forge 读模型里的 `render_granitype`（广场花岗岩板）、`curb`（路缘石），侧面都是路缘石贴图。贴图由 `tools/textures/road_textures.py` 生成（自制，`assets/citybuilder/ATTRIBUTION` 记录），方块状态和模型（含下沉的 `_low` 模型）由 `tools/textures/road_models.py` 生成，改了改脚本后依次重跑。；地标用机场航站楼的桥梁和接触网方块（2026-11-21）：`track`（全天候跑道）、`tu.Airf`/`turf_dark`（球场草皮两种修剪条纹）、`soil`（内野黑土），各带 `_line_white` 标线版（同样的 `angle`/`offset`，`low` 不用，线宽 2 像素；生成器里由 `core.building.landmark.Markings` 按线的真实位置选状态，线相交处按优先级取一条）、`seat_<颜色>`（`SeatBlock`，`facing` 是靠背一侧，六色）、`fresnel_lens`（亮度：幕墙玻璃、金属屋面及半砖、吸顶灯、水磨石、方块地毯、排椅、指示牌 15）`SignBlock`、航班屏 `led_panelBlock`（记分牌、登机桥外板和折棚、行李传送带 `AxisSlabBlock`、扶梯踏板）；贴图、模型、方块状态、物品模型、掉落表和名称都由 `tools/textures/landmarkport_textures.py` 生成、方块状态/；幕墙半透明，Fatenary_textures.py`、`bric 在客户端入口 `CityBuilderFabricClient` 登记，Forge 读模型/物品模型/掉落表/语言由里的 `landmark_modtypels.py` 生成，同样依次重跑。
